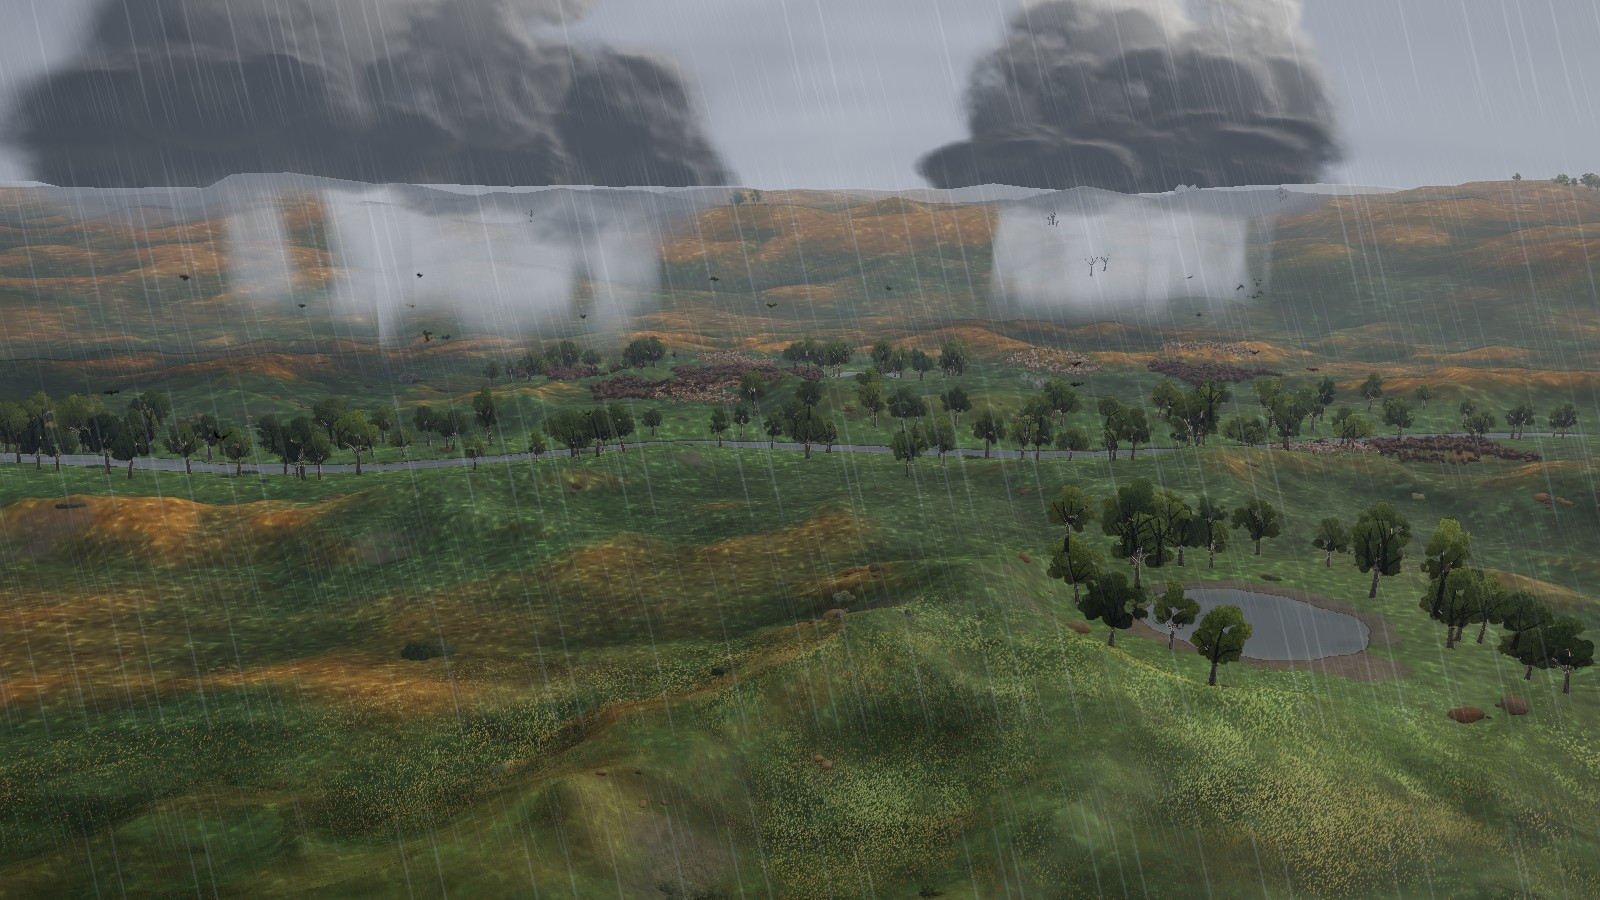
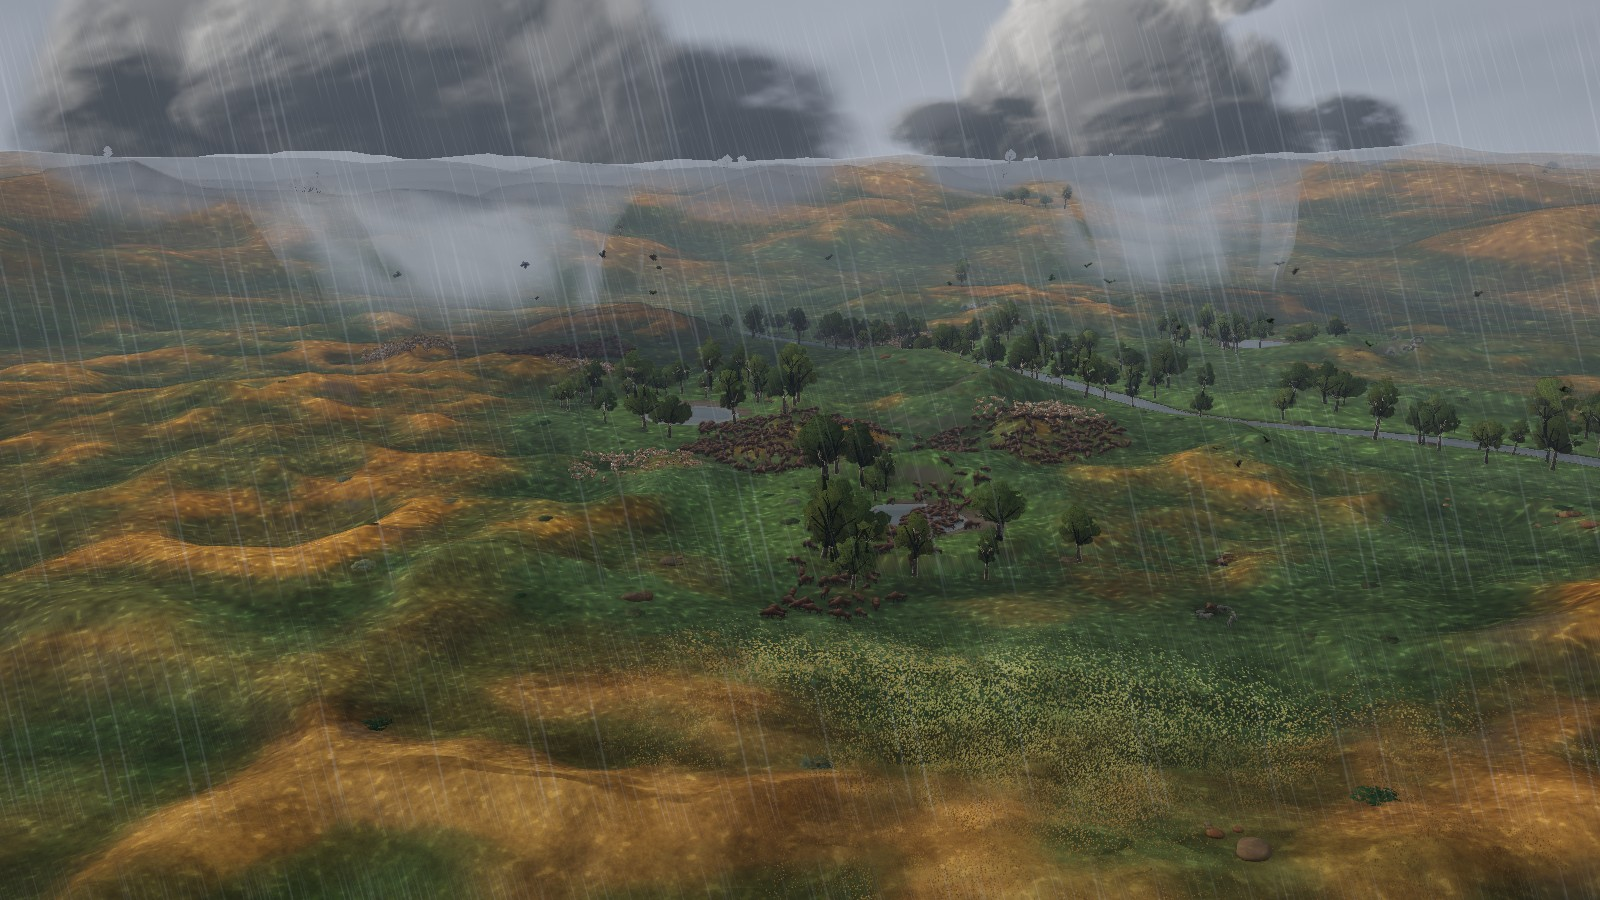
R4: rain shafts as soft grey-blue veils that start inside the cloud deck, taper and fray toward the ground, slant downwind; rainbow still re-shot clear of the baseline shadow-cascade slab

diff --git a/src/render/storms.ts b/src/render/storms.ts
@@ -401,23 +401,35 @@ export class Storms {
     this.meshes.push(this.cloudMesh);
 
     // ---- rain shafts
-    const cyl = new THREE.CylinderGeometry(1, 1, 1, 36, 1, true);
+    // wider at the top (the cloud base) than at the foot; the vertex shader frays the silhouette and shears it downwind
+    const cyl = new THREE.CylinderGeometry(1, 0.6, 1, 48, 8, true);
     for (let k = 0; k < MAX_CELLS; k++) {
       for (let layer = 0; layer < 2; layer++) {
         const mat = new THREE.ShaderMaterial({
           uniforms: {
             uSkyMid: shared.skyMid, uSkyHorizon: shared.skyHorizon, uTime: shared.time,
             uI: { value: 0 }, uSeed: { value: k * 13.7 + layer * 5.1 }, uLayer: { value: layer }, uBolt: this.boltUniform,
-            uWind: shared.wind, uLightColor: shared.lightColor,
+            uWind: shared.wind, uLightColor: shared.lightColor, uSunDir: shared.sunDir, uSunDiskColor: shared.sunDiskColor,
+            uBase: { value: 100 },
             tHeight: shared.heightTex, uCell: { value: world.cell }, uHN: { value: world.hn },
           },
           vertexShader: /* glsl */ `
             varying vec2 vUv;
             varying vec3 vWorld;
             varying vec3 vNw;
+            uniform vec3 uWind;
+            uniform float uSeed;
             void main() {
               vUv = uv;
-              vec4 wp = modelMatrix * vec4(position, 1.0);
+              // ragged edge: the radius wanders with angle and height, more toward the foot
+              float ang = uv.x * 6.2831853;
+              float v = uv.y;
+              float rag = 0.13 * sin(ang * 3.0 + uSeed + v * 4.0) + 0.09 * sin(ang * 5.0 - uSeed * 1.7 - v * 7.0) + 0.05 * sin(ang * 7.0 + uSeed * 2.3 + v * 11.0);
+              vec3 p = position;
+              p.xz *= 1.0 + rag * (1.0 - 0.6 * v);
+              vec4 wp = modelMatrix * vec4(p, 1.0);
+              // slanted downwind: the foot trails behind the cloud base
+              wp.xz += uWind.xy * (1.0 - v) * (8.0 + 38.0 * uWind.z);
               vWorld = wp.xyz;
               vNw = normalize((modelMatrix * vec4(normal, 0.0)).xyz);
               gl_Position = projectionMatrix * viewMatrix * wp;
@@ -431,6 +443,9 @@ export class Storms {
             uniform vec3 uSkyHorizon;
             uniform vec3 uLightColor;
             uniform vec3 uWind;
+            uniform vec3 uSunDir;
+            uniform vec3 uSunDiskColor;
+            uniform float uBase;
             uniform float uTime;
             uniform float uI;
             uniform float uSeed;
@@ -456,14 +471,18 @@ export class Storms {
               float line = smoothstep(0.5, 0.12, abs(fract(q.x) - 0.5));
               float streak = smoothstep(0.35, 0.95, h) * line;
               float detail = mix(0.85, 0.45 + 0.9 * streak, fineFade);
-              float topFade = mix(0.55, 1.0, v);
-              float edge = smoothstep(0.0, 0.06, v);
+              // no top edge: the veil is gone inside the cloud deck and thickens just below its base, then thins toward the ground
+              float topFade = smoothstep(uBase + 26.0, uBase - 10.0, vWorld.y) * mix(0.5, 1.0, v);
+              float edge = 1.0;
               // a column is densest through its middle: fade toward the silhouette, and thin the foot into ground mist
               float facing = smoothstep(0.0, 0.8, abs(dot(normalize(vNw), normalize(cameraPosition - vWorld))));
               float foot = smoothstep(0.0, 30.0, vWorld.y - tgHeightAt(vWorld.xz));
-              float a = clump * detail * topFade * edge * facing * foot * uI * camFade * (0.62 + 0.2 * uLayer);
+              float a = clump * detail * topFade * edge * facing * foot * uI * camFade * (0.7 + 0.18 * uLayer);
               if (a < 0.004) discard;
-              vec3 col = mix(uSkyMid, uSkyHorizon, 0.4) * 0.6 + uLightColor * 0.01 + vec3(0.008, 0.012, 0.018);
+              // a grey-blue veil, darker than the sky behind it; it only brightens when the sun is behind it
+              vec3 vd = normalize(vWorld - cameraPosition);
+              float back = pow(max(dot(vd, uSunDir), 0.0), 4.0) * smoothstep(-0.05, 0.25, uSunDir.y);
+              vec3 col = uSkyMid * 0.3 + uSkyHorizon * 0.1 + vec3(0.006, 0.01, 0.015) + uSunDiskColor * 0.16 * back;
               vec3 tb = vWorld - uBolt.xyz;
               col += vec3(0.5, 0.6, 1.0) * uBolt.w / (1.0 + dot(tb, tb) / 20000.0) * 1.2;
               gl_FragColor = vec4(min(col, vec3(32.0)), a);
@@ -909,10 +928,11 @@ export class Storms {
         // reach the lowest ground under the shaft, so its foot is never in the air
         let low = this.heightAt(c.x, c.z);
         for (let q = 0; q < 4; q++) low = Math.min(low, this.heightAt(c.x + Math.cos(q * 1.571) * rad, c.z + Math.sin(q * 1.571) * rad));
-        const bottom = low - 8, top = c.baseY + 14;
+        const bottom = low - 8, top = c.baseY + 34;
         s.mesh.position.set(c.x, (top + bottom) / 2, c.z);
         s.mesh.scale.set(rad, top - bottom, rad);
         s.mat.uniforms.uI.value = vis * (0.55 + 0.45 * clamp(c.I, 0, 1));
+        s.mat.uniforms.uBase.value = c.baseY;
         s.mesh.visible = true;
       }
     }
